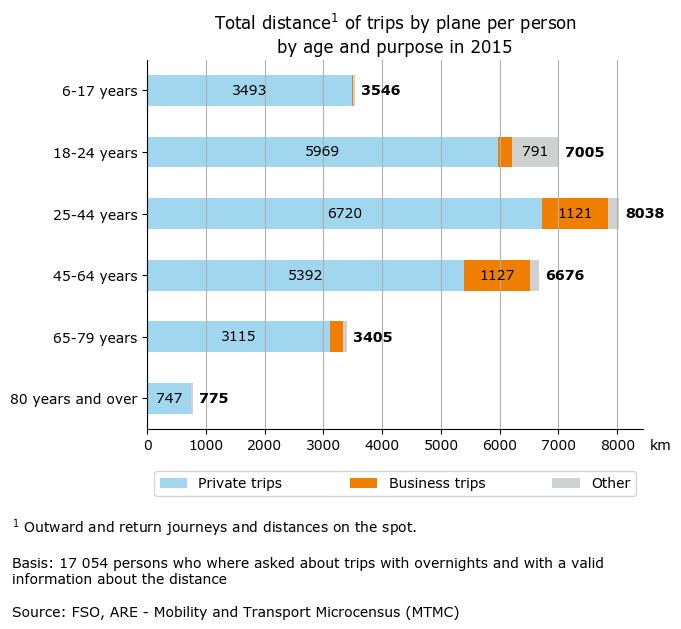
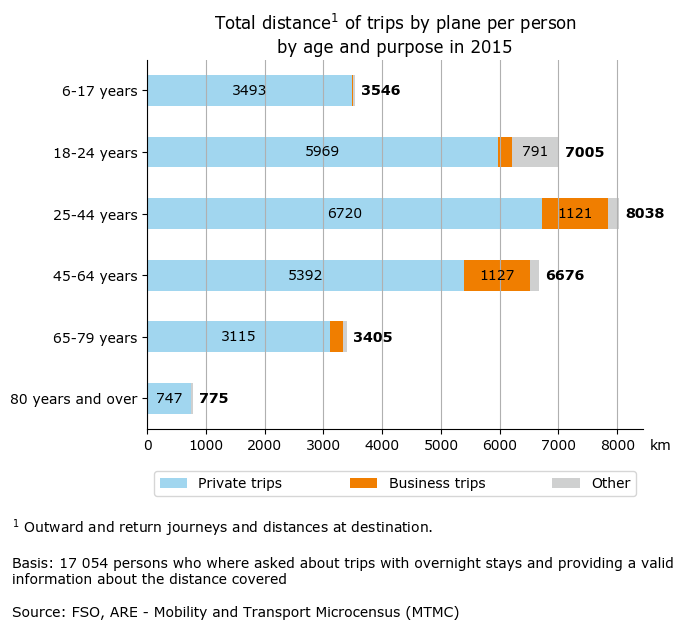
Small corrections in the English figure

diff --git a/src/run_distance_by_plane_in_switzerland_in_2015.py b/src/run_distance_by_plane_in_switzerland_in_2015.py
@@ -125,9 +125,9 @@ def generate_figure_by_age_by_trip_category(output_by_age_as_df_private, output_
                               'Base: 17 054 personnes cible interrogées dans le module supplémentaire\n"Voyages avec '
                               'nuitées", avec indication valable de la distance\n\n'
                               'Source: OFS, ARE - Microrecensement mobilité et transports (MRMT)',
-                        'en': '$^1$ Outward and return journeys and distances on the spot.\n\n'
-                              'Basis: 17 054 persons who where asked about trips with overnights and with a valid\n'
-                              'information about the distance\n\n'
+                        'en': '$^1$ Outward and return journeys and distances at destination.\n\n'
+                              'Basis: 17 054 persons who where asked about trips with overnight stays and providing a valid\n'
+                              'information about the distance covered\n\n'
                               'Source: FSO, ARE - Mobility and Transport Microcensus (MTMC)',
                         'de': '$^1$ Hinreise(n), Rückreise(n) und Distanzen vor Ort.\n\n'
                               'Basis: 17 054 Zielpersonen die zum Zusatzmodul Reisen mit Übernachtungen befragt '
